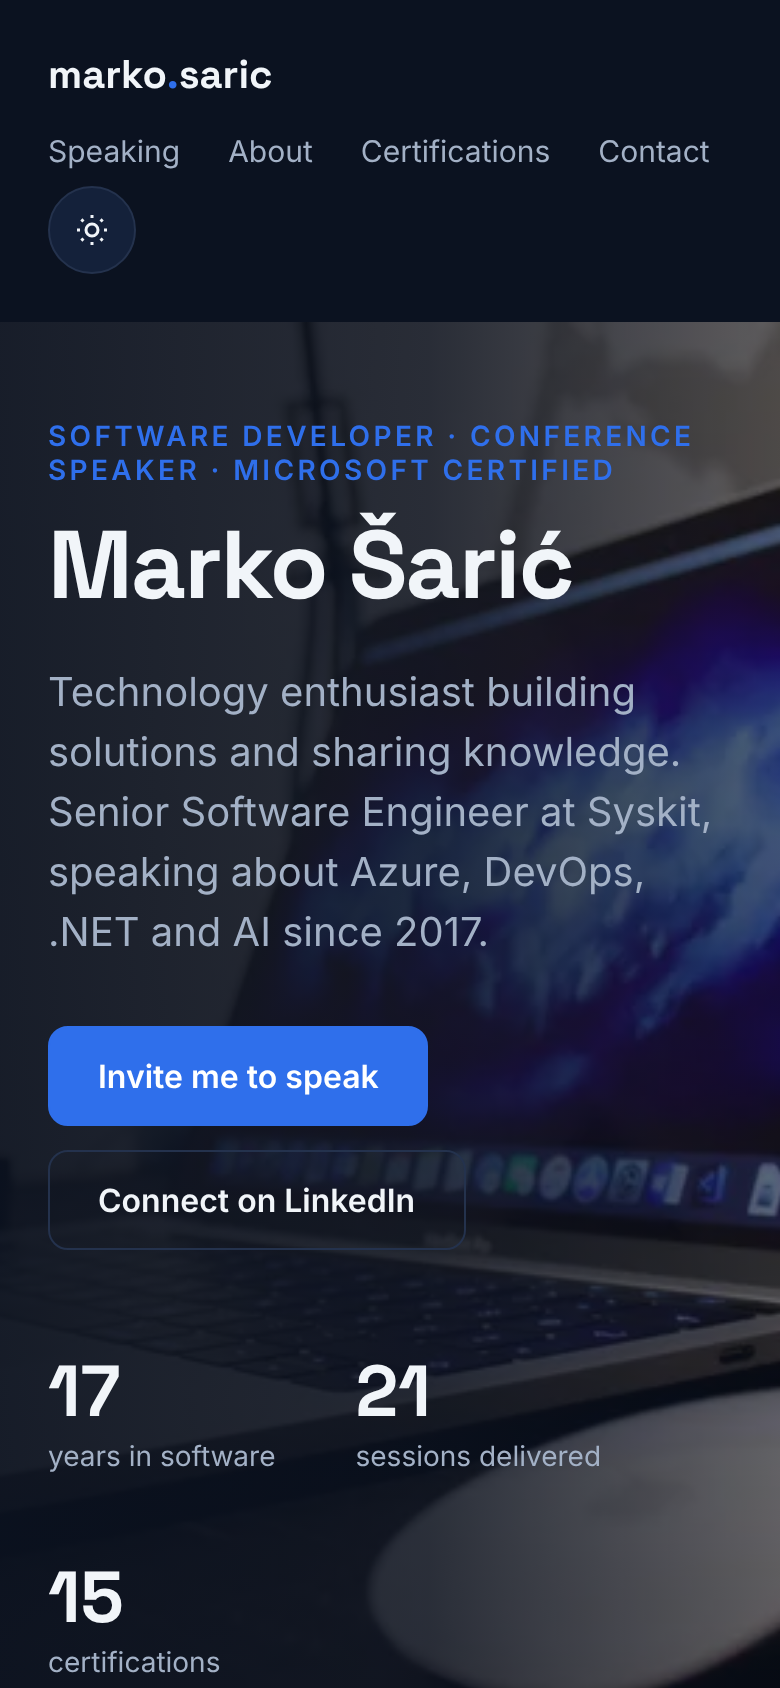
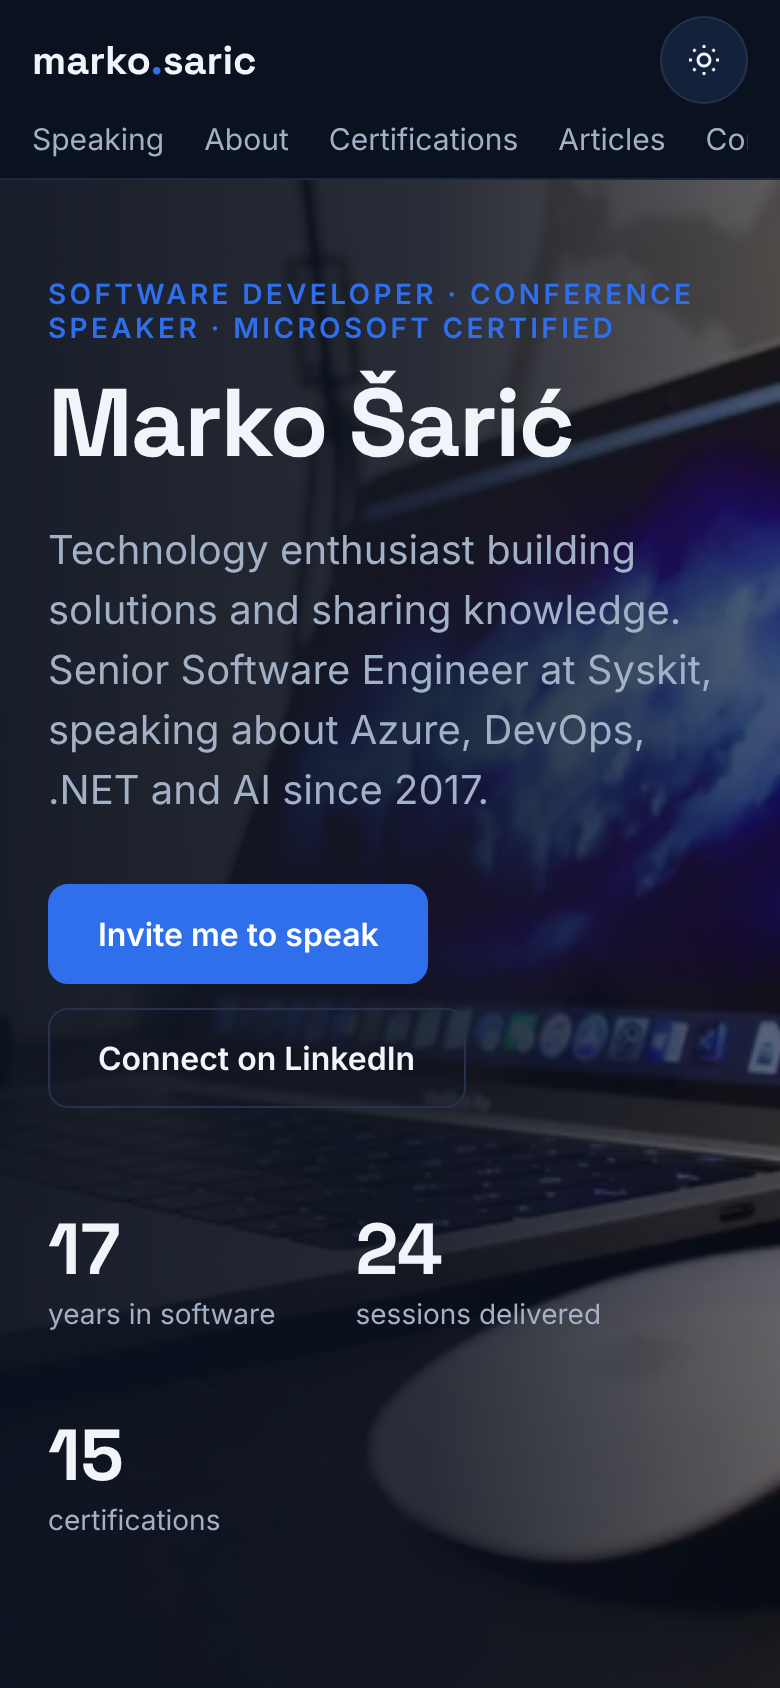
README: refresh screenshots with test content, add article page
Claude-Session: https://claude.ai/code/session_01NriUTZMdkjCUSoE4wLHrfs

diff --git a/README.md b/README.md
@@ -4,11 +4,17 @@ Marko Šarić's personal website: an [Astro](https://astro.build) static site bu
 
 ## Preview
 
-Homepage as built from this code (1280 px wide), light and dark:
+Homepage as built from this code (1280 px wide), light and dark. The screenshots use fictional test content (upcoming talks, three extra past talks and three articles, all marked "(test)") so every section shows, including "Upcoming talks" and "Latest articles". None of that test content is in the repo.
 
 | Light | Dark |
 | --- | --- |
 | ![Homepage in light mode](docs/screenshots/home-light.png) | ![Homepage in dark mode](docs/screenshots/home-dark.png) |
+
+An article page:
+
+| Light | Dark |
+| --- | --- |
+| ![Article page in light mode](docs/screenshots/article-light.png) | ![Article page in dark mode](docs/screenshots/article-dark.png) |
 
 On a phone (390 px):
 
@@ -17,9 +23,9 @@ On a phone (390 px):
   <img src="docs/screenshots/home-dark-phone.png" alt="Homepage on a phone, dark mode" width="260">
 </p>
 
-The design these screenshots come from is in [`docs/design/`](docs/design/) (`keynote.dc.html`), with the live version on the Personal Landing Page Design canvas. The "Upcoming talks" block only appears once a talk is booked, so it is not in these screenshots; the design canvas shows it.
+The design these screenshots come from is in [`docs/design/`](docs/design/) (`keynote.dc.html`), with the live version on the Personal Landing Page Design canvas.
 
-To refresh the screenshots, run `npm run build && npm run preview` and capture `http://localhost:4321` at 1280 px (full page) and 390 px, in both colour schemes.
+To refresh the screenshots, add some test talks and articles, run `npm run build && npm run preview`, and capture `http://localhost:4321` and one article page at 1280 px (full page) and the homepage at 390 px, in both colour schemes.
 
 ## Run it
 
